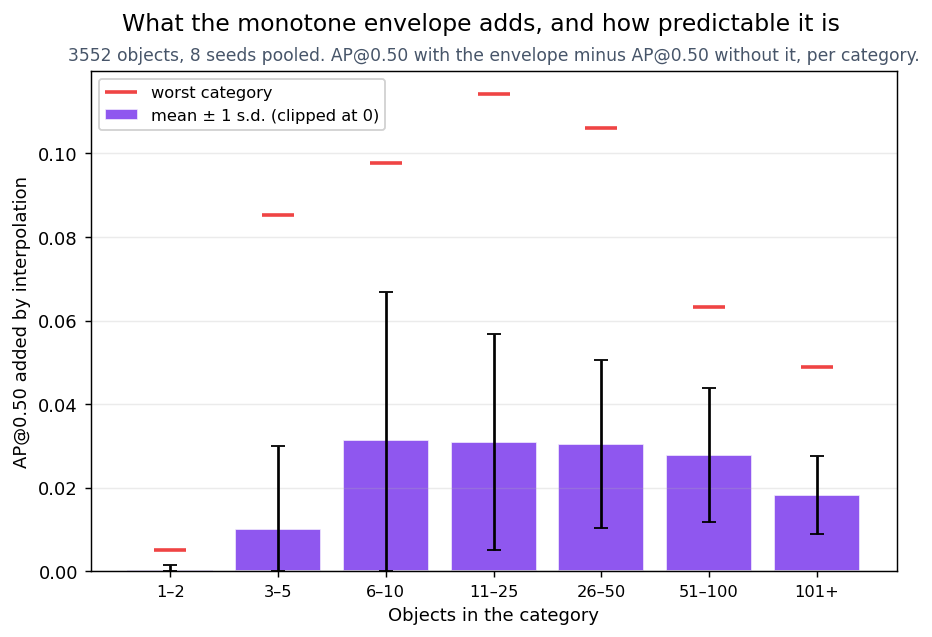
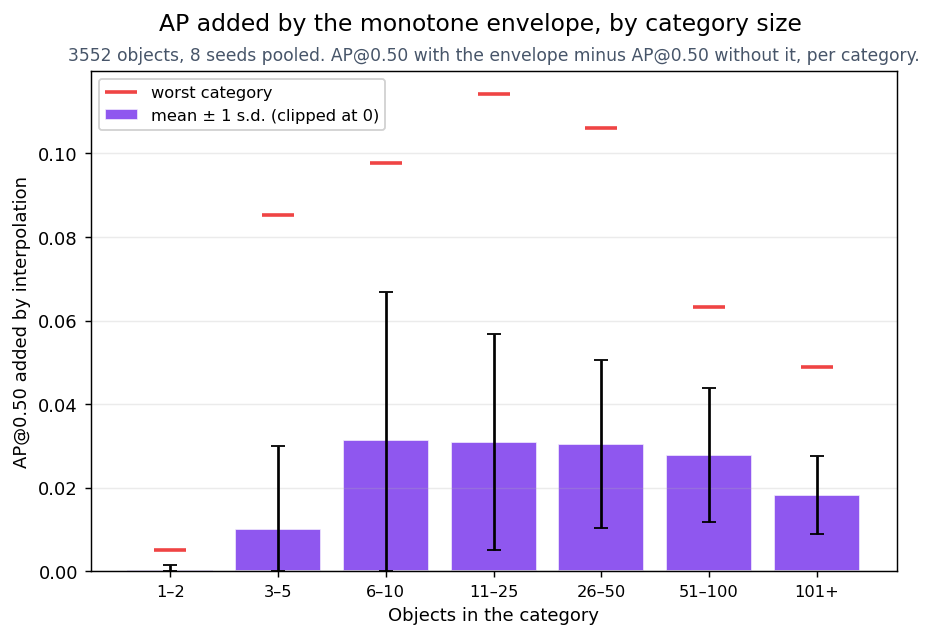
Review the README: correct factual errors and define the metrics

Changed region(s): [[0.1245, 0.0, 0.9024, 0.0597]]

diff --git a/src/mapstudy/cli.py b/src/mapstudy/cli.py
@@ -112,7 +112,7 @@ SWEEPS = {
         "scenario": "b",
         "parameter": "n_hedges",
         "values": DEFAULT_HEDGE_COUNTS,
-        "title": "Metrics as redundant predictions pile up",
+        "title": "Metric values as redundant boxes are added per object",
         "subtitle": "Scenario B, one accurate box per object plus N low-confidence boxes around it",
         "x_label": "Spurious boxes added per object",
     },
@@ -276,7 +276,7 @@ def invariance_command(args: argparse.Namespace) -> None:
     plt.close(
         plot_interpolation_bias(
             bias,
-            title="What the monotone envelope adds, and how predictable it is",
+            title="AP added by the monotone envelope, by category size",
             subtitle=(
                 f"{payload['n_objects']} objects, {len(args.bias_seeds)} seeds pooled. "
                 "AP@0.50 with the envelope minus AP@0.50 without it, per category."

diff --git a/README.md b/README.md
@@ -50,20 +50,20 @@ Neither failure is a bug in the implementation: both are reproduced here against
 `pycocotools` itself, and this project's from-scratch mAP agrees with it to 1e-9. They
 are properties of the metric's definition.
 
-These two scenarios are the starting point of the study. Each is a single configuration 
-chosen by hand: one shift value for A, one number of extra boxes for B. 
+These two scenarios are the starting point of the study. Each is a single configuration
+chosen by hand: one shift value for A, one number of extra boxes for B.
 
-Now, to move from the intuition provided by these experiments to the actual proof, Part 1 
-will consist of : 
+Now, to move from the intuition provided by these experiments to the actual proof, Part 1
+will consist of :
 
-- **Experiment 1** states the problem the two cenarios share. It is not that these particular
+- **Experiment 1** states the problem the two scenarios share. It is not that these particular
   detectors are extreme, but that mAP gives the same score to detectors behaving in completely
   different ways, so no score can be read back to the behaviour that produced it.
 - **Experiments 2 and 3** remove the hand-picking. Rather than one value each, they vary
   the parameter across its whole range and report mAP at every step: the shift of
   scenario A in experiment 2, the number of low-confidence boxes of scenario B in
   experiment 3. What the two pictures above show at one setting turns out to hold across
-  the range. 
+  the range.
 
 This code accompanies the paper *"On the Relevance of Mean Average Precision in Object
 Detection: A Controlled Experimental Study and Comparative Analysis of Alternative
@@ -71,7 +71,8 @@ Metrics"* (Tazi & Glissa, IMT Mines Alès & L2TI, Université Sorbonne Paris Nor
 
 ## How a metric is judged here
 
-Three criteria organise the critique. The individual shortcomings they group
+Three criteria organise the critique. They are the framework of the accompanying paper
+and of the oral presentation it is drawn from; the individual shortcomings they group
 together are those enumerated for AP by Oksuz et al. [6] and, for redundant predictions,
 by Jena et al. [3].
 
@@ -114,6 +115,85 @@ Unless stated otherwise, results use the first 500 annotated images of COCO 2017
 (3,552 objects) with seed 42. The reference table at the end of this README uses the
 first 1,000 images (7,538 objects), as do the two figures above.
 
+## The metrics compared
+
+mAP is assumed known. The two alternatives are defined here because Part 1 already
+reports their values.
+
+### oLRP (Oksuz et al. [6])
+
+LRP is an **error**, so lower is better, and it is bounded in [0, 1] with 0 for a perfect
+detector. It is evaluated at a confidence threshold τ, which fixes which detections are
+kept and therefore the counts of true positives, false positives and false negatives:
+
+```
+LRP(τ) = [ Σ_TP (1 - IoU) / (1 - 0.5) + FP(τ) + FN(τ) ] / [ TP(τ) + FP(τ) + FN(τ) ]
+```
+
+The numerator adds three quantities on a common scale: the looseness of the matched
+boxes, normalised by `1 - 0.5` so that a box exactly at the IoU threshold contributes 1;
+the number of false positives; and the number of false negatives. The denominator is the
+total number of decisions made, which turns the sum into a rate.
+
+**Optimal LRP** is the minimum of that error over every threshold, and **τ\*** is the
+threshold attaining it:
+
+```
+oLRP = min_τ LRP(τ)        τ* = argmin_τ LRP(τ)
+```
+
+Two consequences are used throughout. Computing oLRP requires locating τ\*, so the
+operating point is produced by the definition rather than added to it. And because oLRP
+is evaluated at the threshold that suits the detector best, detections that any threshold
+can discard cost it nothing, which is what experiment 3 measures.
+
+The score is reported with **three components**, each read at τ\*. `oLRP localisation`
+is the mean of `1 - IoU` over the matched boxes, reported without the `1 - 0.5`
+normalisation that appears in the formula above: scenario B, whose accurate boxes sit at
+IoU 0.822, gives 0.178. `oLRP false positive` is `1 - precision` and `oLRP false
+negative` is `1 - recall`, both at τ\*. Part 2 shows that these three carry the
+information the scalar does not.
+
+### TIDE (Bolya et al. [1])
+
+TIDE does not return a score. For each of six error types it returns **the AP that would
+be recovered if that error type alone were corrected**, every other error left in place.
+A value of `Loc = 0.495` therefore means that repairing localisation, and nothing else,
+would return 0.495 of AP. Two properties follow: the six values do not have to sum to the
+AP that was lost, and a detector can lose AP with every error type at zero, which is what
+happens in scenario B.
+
+With the default thresholds of 0.5 for a match and 0.1 for background, a detection that
+failed to match is assigned the first of these that applies:
+
+| Error | A detection that is not a true positive because | Correcting it means |
+|---|---|---|
+| `Loc` | its IoU with the best same-class object is between 0.1 and 0.5 | tightening the box |
+| `Cls` | it reaches IoU 0.5 on an object of *another* class | relabelling it |
+| `Dupe` | it reaches IoU 0.5 on a same-class object already matched by a more confident detection | suppressing it |
+| `Bkg` | its IoU is at most 0.1 with *every* object, of any class | not predicting it |
+| `Both` | none of the above applies: wrong class and insufficient IoU together | both of the above |
+| `Miss` | an object matched nothing, and no correction above would have recovered it | detecting it |
+
+The order matters: `Both` is the case left over once the others are excluded, and `Miss`
+counts only objects that no single correction could recover, so it is narrower than
+"object without a detection".
+
+### Fixed-threshold precision, recall and F1
+
+Computed at one confidence threshold, 0.05 unless stated. Unlike the three metrics above,
+these do not rank detections; they count every detection kept by the threshold. This is
+the only quantity in the study that responded to every failure mode tested.
+
+### Implementations
+
+| Metric | Implementation |
+|---|---|
+| mAP@.50, mAP@[.50:.95] | [`pycocotools`](https://github.com/cocodataset/cocoapi) and [`average_precision.py`](src/mapstudy/average_precision.py), which exposes the interpolation scheme and is tested to match `pycocotools` to 1e-9 |
+| oLRP, its components and τ\* | [`third_party/cocoeval_lrp.py`](src/mapstudy/third_party/cocoeval_lrp.py), the COCO evaluator extended with LRP |
+| TIDE | [`tidecv`](https://github.com/dbolya/tide). Its AP is COCO's interpolated AP, so it inherits the bias measured in experiment 6 |
+| Precision, recall, F1 | [`average_precision.py`](src/mapstudy/average_precision.py) |
+
 ---
 
 # Part 1 - The case against mAP
@@ -133,8 +213,9 @@ the three error types and none of the others:
   emits is the ground-truth box itself, so it never produces a false positive; its only
   error is the objects it leaves out.
 - **Spurious boxes.** Reports every object exactly, then adds boxes placed three
-  box-widths away, overlapping nothing. It never misses an object and never misplaces
-  one; its only error is the boxes it adds.
+  box-widths away, which overlap their own object not at all and any other object only
+  by accident. It never misses an object and never misplaces one; its only error is the
+  boxes it adds.
 - **Mislocalised boxes.** Reports every object, but displaces a fraction of its boxes by
   20% of their size, which puts them at IoU 0.471 and below the matching threshold. It
   adds no box and omits no object; its only error is where the boxes sit.
@@ -156,8 +237,11 @@ its error, and that parameter is bisected until mAP@0.50 reaches 0.500.
 
 A detector with perfect precision, a detector with perfect recall, and a detector with
 neither. mAP@0.50 separates them by **0.0004** and mAP@[.50:.95] by **0.0026**. Averaging
-over ten IoU thresholds does not help, because the thing being averaged is the same
-thing ten times.
+over ten IoU thresholds does not help here: every box is either exact, and so a true
+positive at all ten, or well below 0.50, and so a false positive at all ten, which leaves
+the same value to average ten times. The residual 0.0031 by which the mislocalised
+detector's two mAP columns differ comes from the few displaced boxes that reach IoU 0.50
+with a neighbouring object of the same class but not the thresholds above it.
 
 The mapping from detector behaviour to score is therefore **not injective**. A given
 leaderboard position is compatible with all three detectors, and the number alone does
@@ -216,12 +300,12 @@ threshold interval does not register at all.
 
 This is the second shortcoming Oksuz et al. list, the *"lack of directly measuring
 bounding box localization accuracy"* [6]. The oLRP column is included here only to show
-that a continuous response over the whole range is possible; it is discussed in
+that a continuous response above the threshold is possible; it is discussed in
 experiment 8.
 
 ## 3. mAP ignores spatial hedging
 
-![Metrics as redundant predictions pile up](docs/figures/sweep_hedges.png)
+![Metric values as redundant boxes are added per object](docs/figures/sweep_hedges.png)
 
 **Spatial hedging** is the name Jena et al. give to a detector that covers its bets:
 *"Spatial Hedging refers to hedged predictions which are spatially perturbed versions of
@@ -240,6 +324,7 @@ same 3,552 objects.
 | mAP@0.50 | 1.000 | 1.000 | 1.000 | 1.000 |
 | mAP@[.50:.95] | 0.700 | 0.700 | 0.700 | 0.700 |
 | oLRP ↓ | 0.355 | 0.355 | 0.355 | 0.355 |
+| TIDE, every error type | 0.000 | 0.000 | 0.000 | 0.000 |
 | F1 at confidence ≥ 0.05 | 1.000 | 0.333 | 0.207 | 0.159 |
 
 Not one ranking-based metric reacts, to three decimal places, while the detector emits
@@ -247,11 +332,11 @@ thirteen times more boxes. This confirms on COCO detection what Jena et al. repo
 instance segmentation: AP *"does not penalize duplicate predictions in the high-recall
 range"* [3].
 
-**This blindness is not specific to mAP.** oLRP is equally still, and so is TIDE, because
-all three evaluate a *ranking* and are free to choose where to cut it. Only a metric
-evaluated at a fixed operating point reacts: F1 falls from 1.000 to 0.159.
+**The absence of response extends to oLRP and TIDE.** All three evaluate a *ranking* and
+are free to select where to cut it, so all three remain unchanged. Only a metric
+evaluated at a fixed operating point responds: F1 falls from 1.000 to 0.159.
 
-It should be said that the LRP paper does not claim otherwise. Oksuz et al. motivate
+The LRP paper makes no contrary claim. Oksuz et al. motivate
 oLRP by the two shortcomings quoted above, distinguishing RP curves and measuring
 localisation, and nowhere present it as a remedy for false positives ranked below every
 true positive. Spatial hedging is outside the problem oLRP was designed to solve, and
@@ -270,9 +355,9 @@ the accurate boxes' 0.85-0.95:
 | oLRP ↓ | 0.355 | 0.355 | **0.451** | 0.536 | 0.597 |
 | oLRP localisation ↓ | 0.178 | 0.178 | 0.178 | 0.178 | 0.178 |
 
-Nothing moves until the two confidence populations overlap, then every ranking metric degrades
-at once. **What these metrics measure is not whether a detector emits redundant boxes,
-but whether its confidence scores are well enough calibrated to separate them.**
+Nothing moves until the two confidence populations overlap, after which every ranking
+metric degrades at once. **What these metrics register is the separability of the two
+confidence populations, rather than the number of redundant boxes the detector emits.**
 
 ## 4. mAP has a floor that duplication cannot cross
 
@@ -299,8 +384,8 @@ falling.
 The mechanism differs from the one described in experiment 3, and the difference is what
 makes this result independent of calibration.
 
-Each copy is displaced by at most 5% of the box size, so it overlaps its object at an IoU
-of about 0.82 and would qualify as a true positive on its own. The COCO matching rule
+Each copy is displaced by at most 5% of the box size on each axis, so it overlaps its
+object at an IoU of 0.82 or above and would qualify as a true positive on its own. The COCO matching rule
 processes detections in decreasing order of confidence and assigns the object to the
 first box that covers it; every later box covering the same object is then a false
 positive. The true positive is therefore not drawn at random among the `k+1` candidates,
@@ -312,14 +397,13 @@ distribution. A maximum increases with the number of draws:
 | Mean confidence of the true positives | 0.519 | 0.680 | 0.844 | 0.948 | **0.986** |
 | Mean confidence of the false positives | - | 0.363 | 0.445 | 0.545 | 0.633 |
 | True positives among the 5% most confident detections | 100% | 97.5% | 90.7% | 73.3% | **50.0%** |
-| Precision over all detections | 100% | 50.0% | 20.0% | 7.1% | **3.1%** |
 
 AP integrates precision against recall along that ordering, so what it measures is the
 purity of the top of the ranking. Duplication raises the confidence of each true positive
 and leaves the losing copies below it, since they lost the same draw. At 64 copies only
-3.1% of the detections are correct, yet 50.0% of the most confident ones still are: full
-recall is reached while precision is near one half, and the area under the curve stays
-large.
+3.1% of the detections are correct, as the first table shows, yet 50.0% of the most
+confident ones still are: full recall is reached while precision is near one half, and
+the area under the curve remains large.
 
 This bounds what duplication can do to the score. Adding copies degrades precision and
 raises the confidence of the true positives at the same time, and the two effects partly
@@ -344,12 +428,13 @@ numbers attached to them change.
 
 Both mAP columns are identical across every row, to the six decimals shown and to machine
 precision beyond them; the test suite asserts equality rather than approximate equality.
-The F1 column, evaluated at a fixed threshold of 0.05, moves from 0.772 to 0.642.
+The F1 column, evaluated at a fixed threshold of 0.05, ranges from 0.642 to 0.772
+depending on the transform.
 
 The final row gives the practical reading. Its detector assigns every detection a
-confidence between 0.102 and 0.120, which places all of them just above a threshold of
-0.05 and below any higher one, so in deployment it either returns every detection it has
-or none at all. It obtains the same mAP as the identity row, whose confidences span
+confidence between 0.102 and 0.120, which places all of them above a threshold of 0.05
+and below any threshold above 0.12, so at either of those settings it returns every
+detection it has or none at all. It obtains the same mAP as the identity row, whose confidences span
 [0.100, 1.000] and allow a threshold to be placed anywhere. **A detector that is never
 confident is indistinguishable, under mAP, from one that is confident where it should
 be**, although only the second can be operated at a threshold.
@@ -363,7 +448,7 @@ would change which threshold is appropriate.
 
 ## 6. Interpolation raises AP by an unpredictable amount
 
-![What interpolation adds](docs/figures/interpolation_bias.png)
+![AP added by the monotone envelope, by category size](docs/figures/interpolation_bias.png)
 
 Before integrating, COCO replaces each precision by the highest precision reached at any
 greater recall. This monotone envelope can only raise AP. The question is by how much,
@@ -384,10 +469,13 @@ deviation is four times larger for categories of 6-10 objects than for categorie
 alone. Since mAP weights every category equally, those swings pass straight into the
 leaderboard number.
 
-Two qualifications, stated because they bound the claim. The effect is *not* monotone in
-category size: below three objects the curve has too few steps to have dips worth
-filling, and the bias vanishes. And "AP without interpolation" is not a standard metric;
-it is computed here to measure what the smoothing hides, not to propose an alternative.
+Two qualifications bound this result. First, the effect is not monotone in category
+size: below three objects the curve has too few steps to contain dips worth filling, and
+the bias vanishes, so the correction is largest for categories of moderate size rather
+than for the smallest ones. Second, "AP without interpolation" is not a standard metric.
+It is computed here to isolate the contribution of the envelope, and no claim is made
+that the uninterpolated value is the correct one: the envelope exists to limit the
+sensitivity of AP to small changes in the ranking.
 
 ---
 
@@ -514,23 +602,36 @@ Experiment 4, with oLRP added:
 | **oLRP ↓** | 0.000 | 0.379 | 0.476 | 0.546 | **0.555** |
 | oLRP false positive ↓ | 0.000 | 0.245 | 0.285 | 0.305 | 0.301 |
 | **oLRP optimal threshold τ\*** | 0.211 | 0.471 | 0.763 | 0.925 | **0.981** |
+| TIDE `Dupe` | 0.000 | 0.136 | 0.189 | **0.240** | 0.239 |
 | F1 at confidence ≥ 0.05 | 1.000 | 0.667 | 0.333 | 0.132 | 0.060 |
 
-This is the largest advantage the oLRP scalar shows anywhere in the study: mAP degrades
-by 0.26 and then stabilises, while oLRP degrades by 0.56 and continues to move. The
-contrast with experiment 3 has a precise cause. There the redundant boxes were less
+This is the largest advantage the oLRP scalar shows anywhere in the study. The two
+metrics are not on a common scale, so what is compared is the shape of the response: mAP
+reaches a plateau after the first few copies and remains there, while oLRP continues to
+change over the whole range. The contrast with experiment 3 has a precise cause. There the redundant boxes were less
 confident than every accurate one, so the minimisation over thresholds that defines oLRP
 excluded them at no cost. Here they are drawn from the same distribution as the accurate
 boxes, no threshold separates the two populations, and oLRP therefore counts them.
 
-The optimal threshold τ\* carries a further result. As duplication increases, the
-threshold minimising LRP rises from 0.211 to 0.981, which states that the detector is
-usable only if detections below 0.98 are discarded. This is the output the metric was
-designed to provide, *"Optimal LRP determines the 'best' confidence score threshold for a
-class, which balances the trade-off between localization and recall-precision"* [6], and
-mAP provides no equivalent. τ\* is exposed by
-[`evaluate_lrp`](src/mapstudy/evaluation.py) and is not usually reported alongside the
-score.
+The false-positive term stops rising between 16 and 64 copies, at 0.305 and 0.301. It is
+evaluated at τ\*, which by then discards almost every copy, so the term describes the
+detections kept at that threshold rather than the total emitted. The count of redundant
+boxes is carried by τ\* itself, not by this component.
+
+The optimal threshold τ\* is not an auxiliary output of the metric. oLRP is defined as
+`min_τ LRP(τ)`, so computing the score requires locating the threshold at which the
+minimum is attained; τ\* is that argmin, obtained together with the score rather than in
+addition to it. Oksuz et al. state this as the purpose of the construction: *"Optimal LRP
+determines the 'best' confidence score threshold for a class, which balances the
+trade-off between localization and recall-precision"* [6]. Selecting an operating point
+is therefore not an application of oLRP but part of its definition.
+
+Here τ\* supplies exactly what the score does not. As duplication increases it rises from
+0.211 to 0.981, so the best operating point available lies above 0.98 and every detection
+below that confidence has to be discarded. mAP admits no comparable output, since experiment 5 establishes that it is
+invariant under the transformations that would change the answer. τ\* is exposed by
+[`evaluate_lrp`](src/mapstudy/evaluation.py); the values reported here are means over the
+categories, the threshold being determined per class in the original formulation.
 
 ## 10. oLRP is equally rank-invariant, while τ\* is not
 
@@ -551,8 +652,10 @@ thresholds together with the confidences. The table is therefore a counterexampl
 claim, sometimes made, that oLRP accounts for confidence values where mAP does not.
 
 What does depend on those values is τ\*, which moves from 0.074 to 0.507 across the
-rows. The score is rank-invariant; the operating point reported with it is not, and mAP
-reports no operating point.
+rows. The invariance therefore affects the score and not the threshold: oLRP scores the
+detector identically under all five transforms, as mAP does, while reporting a different
+operating point for each of them. That output has no counterpart in mAP, which returns a
+score alone.
 
 ## 11. The three criteria, reviewed
 
@@ -566,9 +669,9 @@ the measurements reported above.
 | | Redundant boxes, high confidence | Floor at 0.740 under 65x duplication (exp. 4) | Degrades from 0.000 to 0.555 (exp. 9) | `Dupe` rises to 0.24 (exp. 9) |
 | | Spatial hedging, low confidence | No response (exp. 3) | **No response** (exp. 3) | **No response** (exp. 3) |
 | **Interpretability** | What the score indicates should be corrected | Nothing: three detectors, one score (exp. 1) | Which of three error terms dominates (exp. 7) | Which of six named causes, ranked by AP recoverable (exp. 7) |
-| | As a single number | - | Spread 0.066, close to mAP (exp. 7) | Not a single number by construction |
-| **Practicality** | Choosing a threshold | Not possible: the score is invariant (exp. 5) | Score also invariant, but τ\* is reported (exp. 10) | - |
-| | Rare categories | Interpolation adds up to +0.11 AP, unpredictably (exp. 6) | No interpolation | No interpolation |
+| | As a single number | The case under examination: spread 0.0004 (exp. 7) | Spread 0.066, of the same order as mAP (exp. 7) | Not a single number by construction |
+| **Practicality** | Choosing a threshold | Not possible: the score is invariant under every remapping that would change the answer (exp. 5) | **Determined by construction**: oLRP is `min_τ LRP(τ)`, so τ\* is the argmin obtained with the score. It tracks the confidence values where the score does not (exp. 9, 10) | - |
+| | Rare categories | Interpolation adds up to +0.11 AP, unpredictably (exp. 6) | Not affected: oLRP integrates no precision-recall curve | Reuses COCO's interpolated AP and inherits the same bias (exp. 6) |
 
 ## Conclusion
 
@@ -640,20 +743,6 @@ false-positive term is **0.000**: the value is due entirely to the residual loca
 error of the accurate boxes. TIDE reports no error to correct, since it measures the AP
 that a correction would recover and there is none to recover. This is the limitation
 established in experiment 3, observed here on the scenario that motivates the study.
-
-# Metrics
-
-| Metric | Implementation | What it adds |
-|---|---|---|
-| **mAP@.50, mAP@[.50:.95]** | [`pycocotools`](https://github.com/cocodataset/cocoapi) and [`average_precision.py`](src/mapstudy/average_precision.py) | Standard leaderboard metric. The from-scratch version exposes the interpolation scheme and is tested to match `pycocotools` to 1e-9. |
-| **oLRP**, its components and **τ\*** | [`third_party/cocoeval_lrp.py`](src/mapstudy/third_party/cocoeval_lrp.py) ([Oksuz et al., 2018](https://arxiv.org/abs/1807.01696)) | Separates localisation, false-positive and false-negative error at the optimal confidence threshold, and reports that threshold. |
-| **TIDE** | [`tidecv`](https://github.com/dbolya/tide) ([Bolya et al., 2020](https://dbolya.github.io/tide/)) | Attributes lost AP to `Cls`, `Loc`, `Both`, `Dupe`, `Bkg` and `Miss`. |
-| **Precision, recall, F1 at a fixed threshold** | [`average_precision.py`](src/mapstudy/average_precision.py) | Evaluates the detector at one operating point, as it would be deployed. The only metric in this study that responded to every failure mode tested. |
-
-```
-LRP(τ) = [ Σ_TP (1 - IoU) / (1 - 0.5) + FP(τ) + FN(τ) ] / [ TP(τ) + FP(τ) + FN(τ) ]
-oLRP   = min_τ LRP(τ)        τ* = argmin_τ LRP(τ)
-```
 
 # Getting started
 
